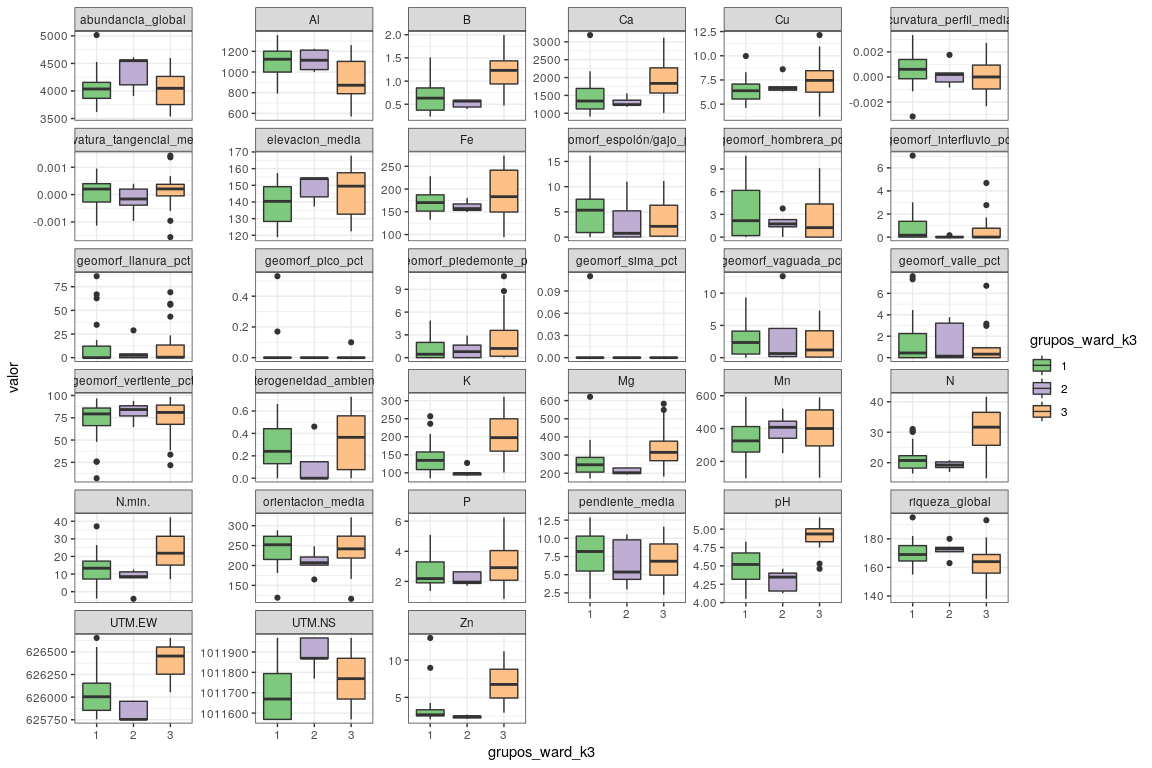
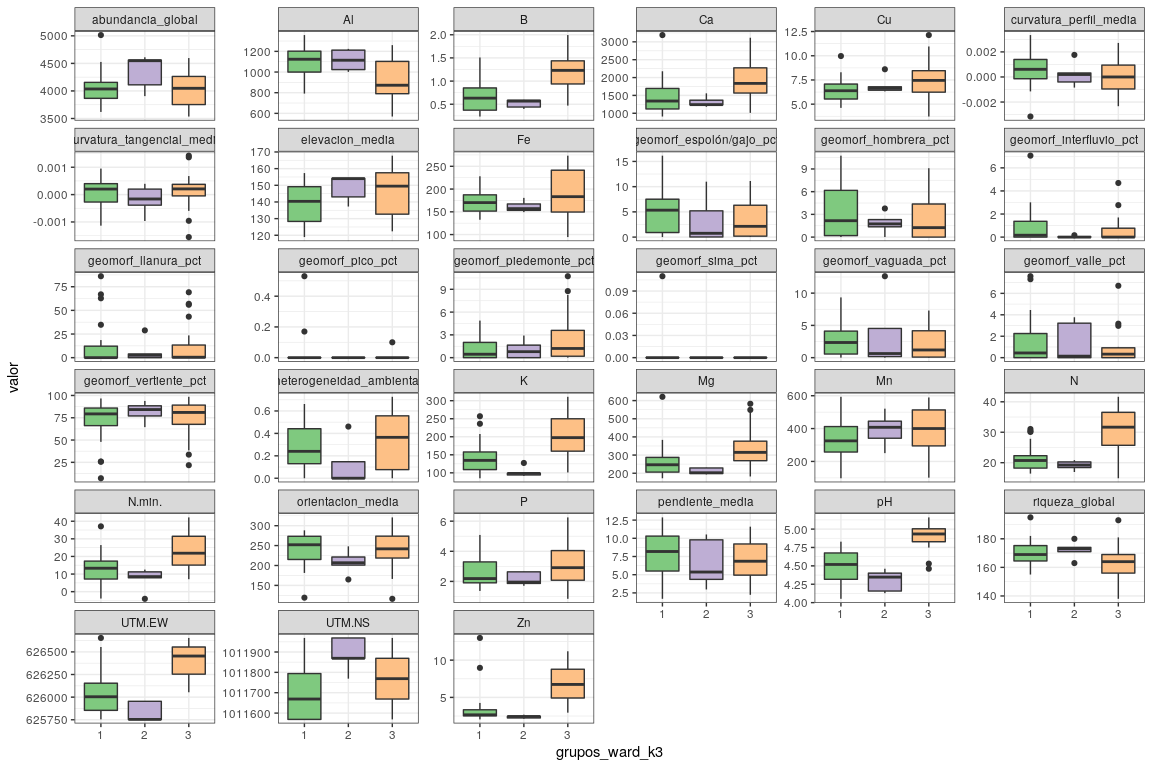
Typo corrected in cluster analysis scripts 2 and 3

diff --git a/aa_analisis_de_agrupamiento_2_intepretacion_resultados.md b/aa_analisis_de_agrupamiento_2_intepretacion_resultados.md
@@ -26,14 +26,14 @@ library(vegan)
 library(tidyverse)
 ```
 
-    ## ── Attaching packages ───────────────────────────────────────── tidyverse 1.2.1 ──
+    ## ── Attaching packages ────────────────────────────────────────────── tidyverse 1.2.1 ──
 
     ## ✓ ggplot2 3.3.2     ✓ purrr   0.3.4
     ## ✓ tibble  3.0.3     ✓ dplyr   0.8.3
     ## ✓ tidyr   1.0.0     ✓ stringr 1.4.0
     ## ✓ readr   1.3.1     ✓ forcats 0.4.0
 
-    ## ── Conflicts ──────────────────────────────────────────── tidyverse_conflicts() ──
+    ## ── Conflicts ───────────────────────────────────────────────── tidyverse_conflicts() ──
     ## x dplyr::filter() masks stats::filter()
     ## x dplyr::lag()    masks stats::lag()
 
@@ -280,14 +280,15 @@ seguir procedimientos mecánicos y, al menos en mi caso, el método de
 Ward podría hacer más sentido ecológico que UPGMA.
 
 El objetivo de la función `calcular_anchuras_siluetas` está implícito en
-su nombre. Esta función requiere de tres argumentos: matriz de comunidad
-original, matriz de distancias, y objeto de clúster. La función
-`calcular_anchuras_siluetas` devuelve como resultado una lista con dos
-objetos (los explico más abajo): 1) Las anchuras promedio para cada
-partición, excepto para la partición `i=1` y `i=50`, por ser
-irrelevantes (se les asigna 0); 2) Número óptimo de grupos. Haré los
-cálculos para UPGMA y Ward, y luego explico en qué consisten los
-resultados.
+su nombre, y requiere de tres argumentos: matriz de comunidad original,
+matriz de distancias, y objeto de clúster. Devuelve como resultado una
+lista con dos objetos (los explico más abajo):
+
+1.  Las anchuras promedio para cada partición, excepto para las
+    particiones `i=1` y `i=50`, por ser irrelevantes (se les asigna 0);
+
+2.  Número óptimo de grupos. Haré los cálculos para UPGMA y Ward, y
+    luego explico en qué consisten los resultados.
 
 Para UPGMA:
 

diff --git a/aa_analisis_de_agrupamiento_3_variables_ambientales_segun_grupos.md b/aa_analisis_de_agrupamiento_3_variables_ambientales_segun_grupos.md
@@ -17,14 +17,14 @@ library(mapview)
 library(tidyverse)
 ```
 
-    ## ── Attaching packages ───────────────────────────────────────── tidyverse 1.2.1 ──
+    ## ── Attaching packages ────────────────────────────────────────────── tidyverse 1.2.1 ──
 
     ## ✓ ggplot2 3.3.2     ✓ purrr   0.3.4
     ## ✓ tibble  3.0.3     ✓ dplyr   0.8.3
     ## ✓ tidyr   1.0.0     ✓ stringr 1.4.0
     ## ✓ readr   1.3.1     ✓ forcats 0.4.0
 
-    ## ── Conflicts ──────────────────────────────────────────── tidyverse_conflicts() ──
+    ## ── Conflicts ───────────────────────────────────────────────── tidyverse_conflicts() ──
     ## x dplyr::filter() masks stats::filter()
     ## x dplyr::lag()    masks stats::lag()
 
@@ -178,8 +178,8 @@ m_amb_upgma_k2 %>%
   ggplot() + aes(x = grupos_upgma_k2, y = valor, fill = grupos_upgma_k2) + 
   geom_boxplot() + 
   scale_fill_brewer(palette = 'Accent') +
-  theme(legend.position="none") +
   theme_bw() +
+  theme(legend.position="none") +
   facet_wrap(~ variable, scales = 'free_y')
 ```
 
@@ -328,8 +328,8 @@ m_amb_ward_k3 %>%
   ggplot() + aes(x = grupos_ward_k3, y = valor, fill = grupos_ward_k3) + 
   geom_boxplot() + 
   scale_fill_brewer(palette = 'Accent') +
-  theme(legend.position="none") +
   theme_bw() +
+  theme(legend.position="none") +
   facet_wrap(~ variable, scales = 'free_y')
 ```
 
